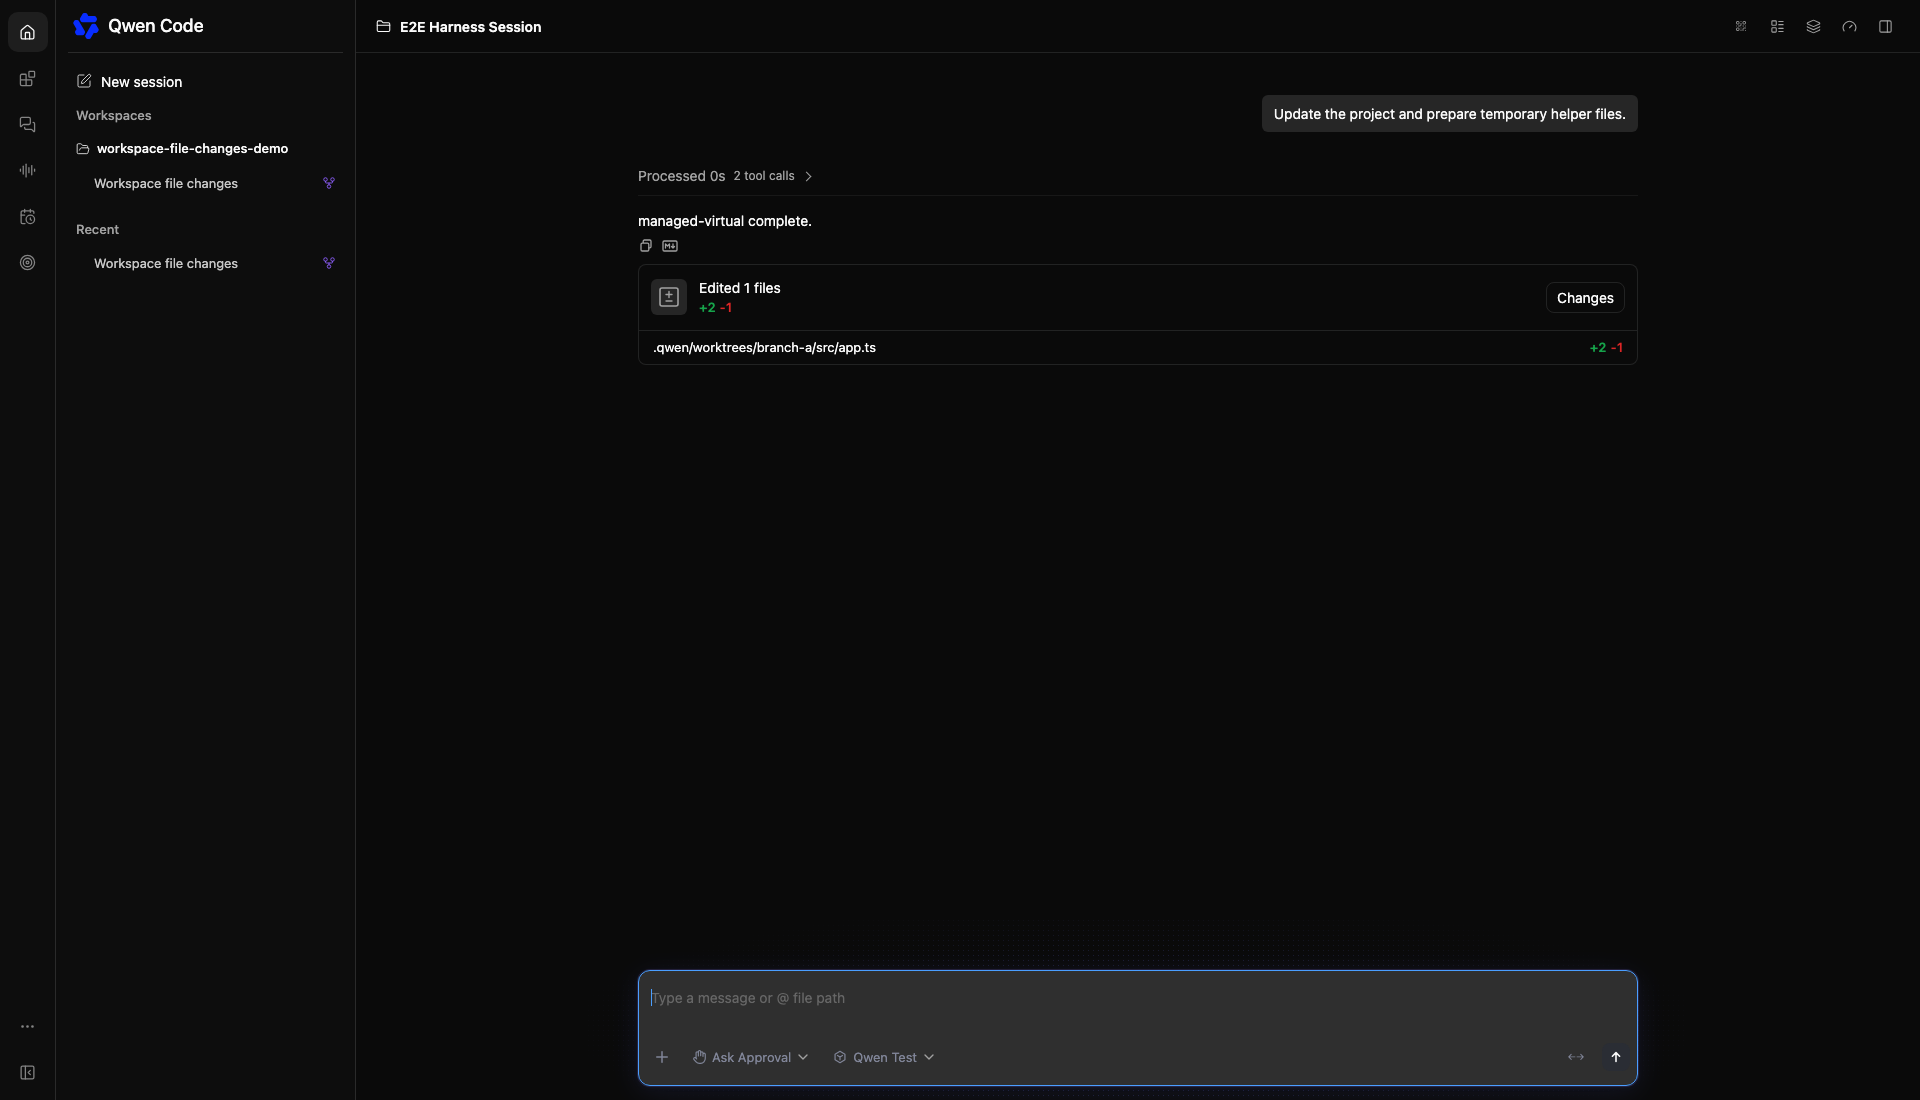
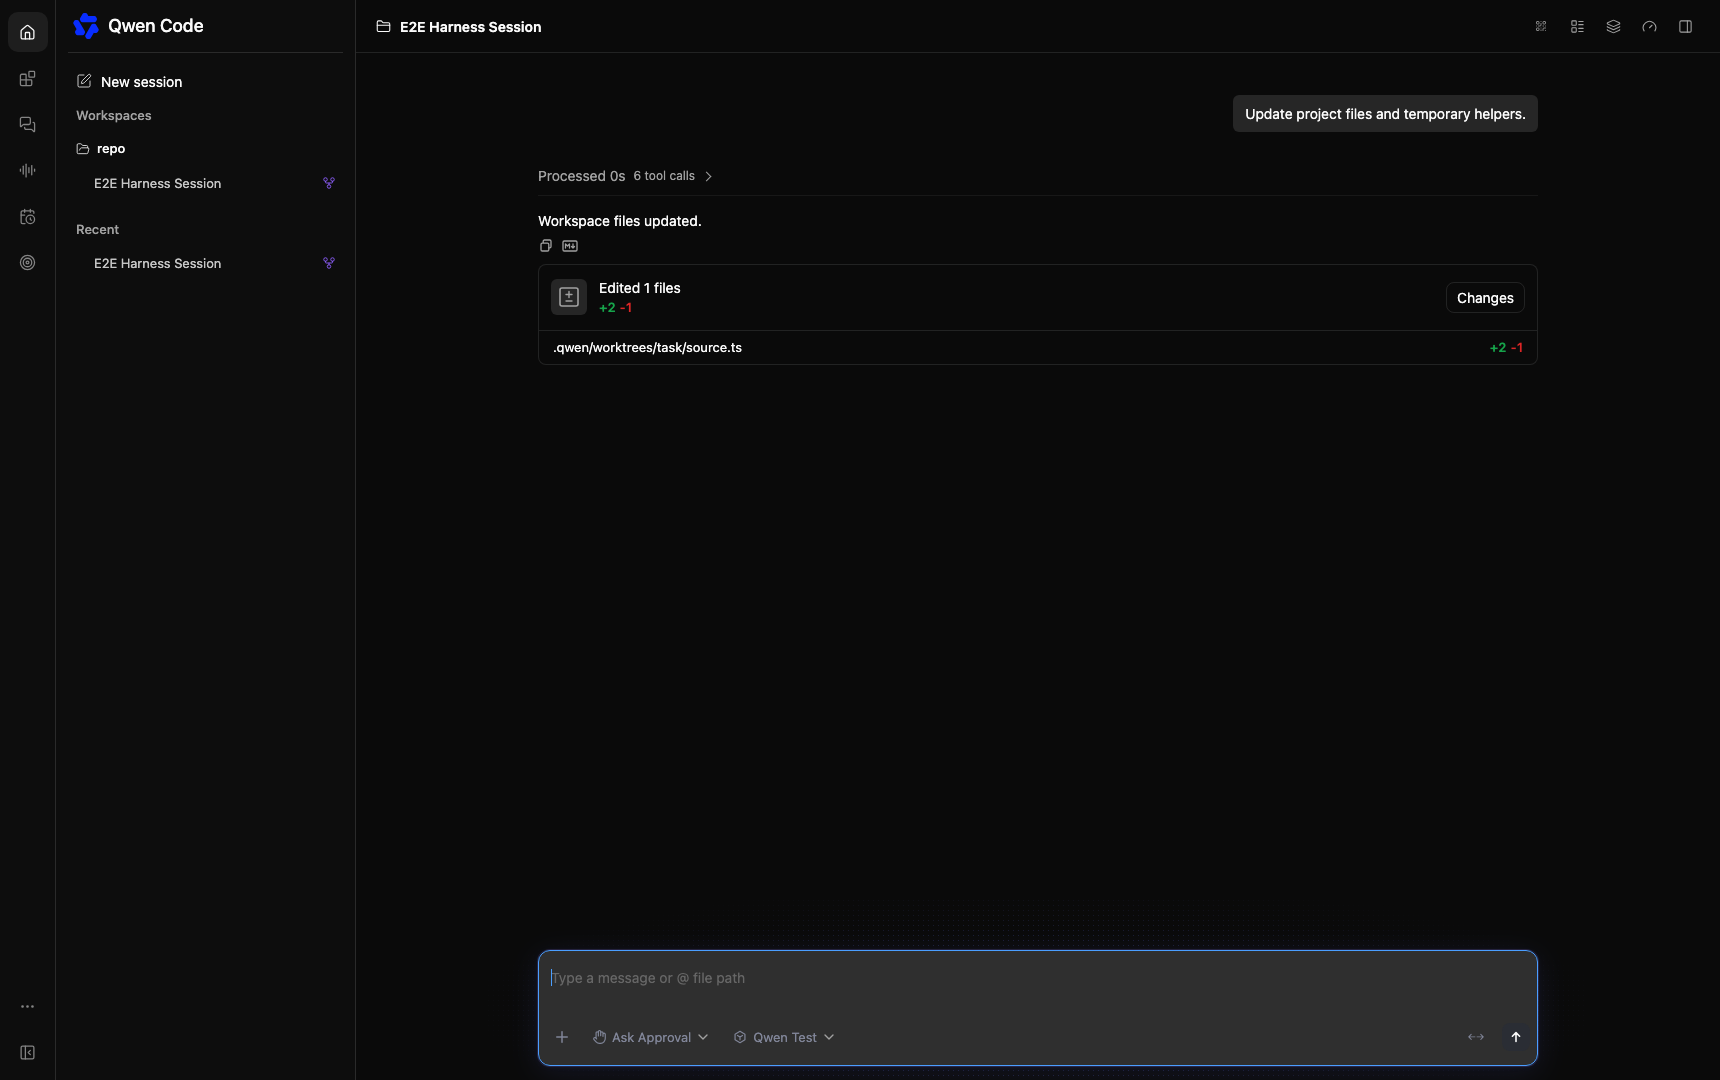
docs: refresh PR 16102 review regression evidence

diff --git a/README.md b/README.md
@@ -1,1 +1,11 @@
-Refreshed browser evidence after PR #16102 CI environment fix, product commit 318e172f372929044cebb2a9ccadd1992ad42cce. Actual compiled UI, qualified Git route, temporary Git/index/ignore/worktree ownership fixtures; simulated session metadata/transcript/SSE/bridge. Four browser groups passed and images were visually inspected. No model writes or complete daemon middleware coverage claimed.
+# PR 16102 browser evidence / 浏览器证据
+
+Captured and visually inspected on macOS/Chromium from the final compiled repair bundle. Screenshots live only on this independent asset branch.
+
+General root/virtual pictures use simulated session metadata/transcript/SSE/bridge with the actual qualified route and real temporary Git repositories, index/ignore rules and managed ownership markers. Root card/review: source.ts, tracked.log and non-ignored scripts/check.py, 3 files, +4/-1. Virtual main entry resolves its real parent owner and managed cwd, 1 source file, +2/-1.
+
+Review regression pictures use the actual compiled UI with simulated session/transport state and controlled ignore replies: no-capability child detail retains its linked-worktree edit; Live with withheld cwd retains its note; a pending new-file verdict updates the existing review from 1 to 2 files; an incomplete saved snapshot reports unavailable content. These pictures do not validate real Git decisions. Separate backend probes use real Git for parent/overlay environment isolation and a real HTTP disconnect with a Git-wrapper marker.
+
+No model file writes, full daemon authentication middleware, Windows/Linux host or live SSH testing is claimed.
+
+最终修复构建产物的实际浏览器截图，已目视检查，仅存独立素材分支。通用主入口/虚拟受管入口使用模拟会话数据及实际 Git 路由/真实临时仓库；主入口卡片和评审均为 3 文件、+4/-1，虚拟入口为 1 文件、+2/-1。评审回归图使用实际 UI 与受控模拟忽略响应，分别证明无能力子代理、Live 隐藏 cwd、等待判定后评审从 1 文件增加到 2 文件，以及保存快照缺失时明确报错。真实 Git 环境隔离与 HTTP 断连由独立后端探针验证。未声称模型实际写入、完整认证中间件、Windows/Linux 或真实 SSH 验证。
